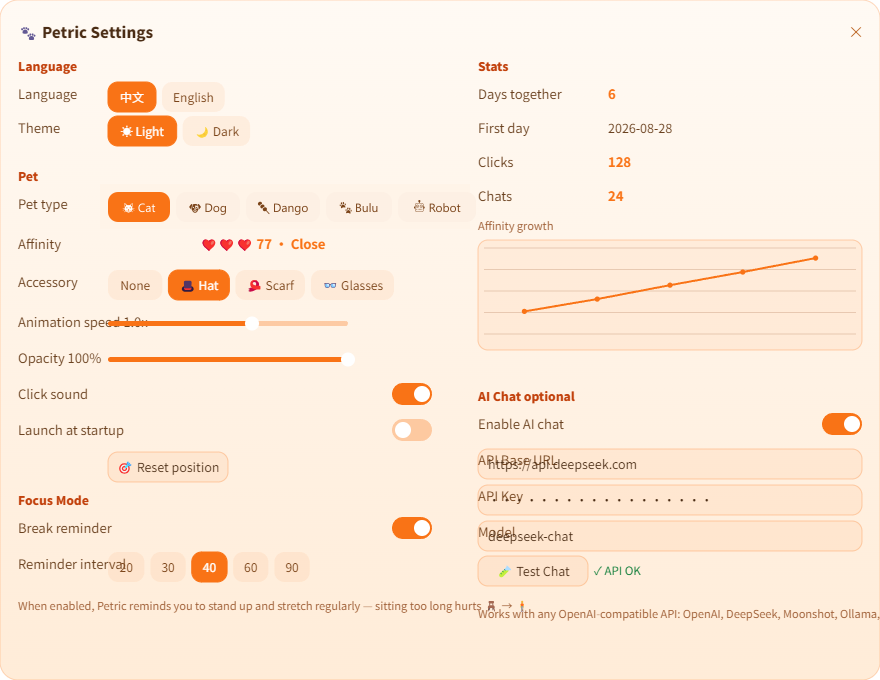
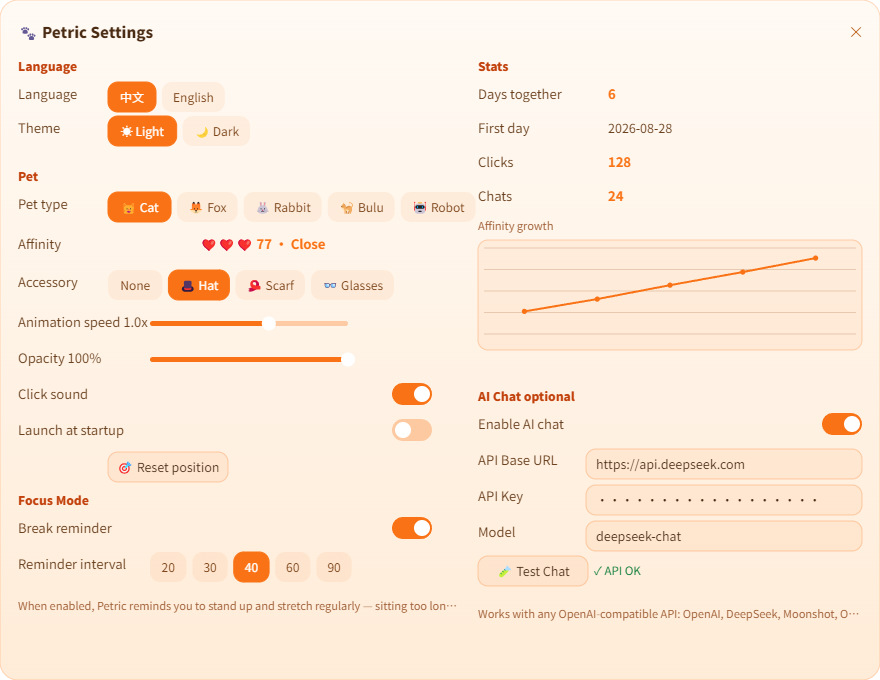
fix two graphs

diff --git a/src/renderer/settings-shot.ts b/src/renderer/settings-shot.ts
@@ -12,6 +12,8 @@ const sc = settingsShotCanvas.getContext('2d')!;
 const W = 880;
 const H = 680;
 const COL_RIGHT = 478; // right column content x offset
+const ROW_LABEL_WIDTH = 108;
+const LEFT_LONG_CONTROL_X = 150;
 
 function rrect(x: number, y: number, w: number, h: number, r: number) {
   sc.beginPath();
@@ -24,6 +26,18 @@ function text(txt: string, x: number, y: number, size: number, color: string, we
   sc.textAlign = align;
   sc.textBaseline = 'middle';
   sc.fillText(txt, x, y);
+}
+
+function textWithin(txt: string, x: number, y: number, maxWidth: number, size: number, color: string, weight = 400) {
+  sc.font = `${weight} ${size}px Nunito, "Noto Sans SC", "Segoe UI", sans-serif`;
+  if (sc.measureText(txt).width <= maxWidth) {
+    text(txt, x, y, size, color, weight);
+    return;
+  }
+
+  const chars = Array.from(txt);
+  while (chars.length && sc.measureText(`${chars.join('')}…`).width > maxWidth) chars.pop();
+  text(`${chars.join('')}…`, x, y, size, color, weight);
 }
 
 function rowLabel(txt: string, y: number, x = 18) {
@@ -151,9 +165,9 @@ settingsShotWindow.__drawSettingsShot = (locale: Locale, dict: Record<string, I1
     1,
   );
   rowLabel(T('settings.animSpeed') + ' 1.0x', 322);
-  slider(108, 321, 240, 0.6);
+  slider(LEFT_LONG_CONTROL_X, 321, 198, 0.6);
   rowLabel(T('settings.opacity') + ' 100%', 358);
-  slider(108, 357, 240, 1);
+  slider(LEFT_LONG_CONTROL_X, 357, 198, 1);
   rowLabel(T('settings.sound'), 394);
   switch_(392, 383, true);
   rowLabel(T('settings.autolaunch'), 430);
@@ -164,8 +178,8 @@ settingsShotWindow.__drawSettingsShot = (locale: Locale, dict: Record<string, I1
   rowLabel(T('settings.focusMode'), 528);
   switch_(392, 517, true);
   rowLabel(T('settings.focusInterval'), 564);
-  segButtons(108, 552, ['20', '30', '40', '60', '90'], 2);
-  text(T('settings.focusHint').split(/[。.]/)[0], 18, 606, 11, '#a1623a');
+  segButtons(LEFT_LONG_CONTROL_X, 552, ['20', '30', '40', '60', '90'], 2);
+  textWithin(T('settings.focusHint').split(/[。.]/)[0], 18, 606, COL_RIGHT - 36, 11, '#a1623a');
 
   // ---------- Right column: stats, AI chat ----------
   const RX = COL_RIGHT; // content start
@@ -228,14 +242,14 @@ settingsShotWindow.__drawSettingsShot = (locale: Locale, dict: Record<string, I1
   rowLabel(T('settings.aiEnabled'), 424, RX);
   switch_(RX + 344, 413, true);
   rowLabel(T('settings.apiBase'), 460, RX);
-  inputBox(RX, 449, 384, 'https://api.deepseek.com');
+  inputBox(RX + ROW_LABEL_WIDTH, 449, W - RX - ROW_LABEL_WIDTH - 18, 'https://api.deepseek.com');
   rowLabel(T('settings.apiKey'), 496, RX);
-  inputBox(RX, 485, 384, '••••••••••••••••••');
+  inputBox(RX + ROW_LABEL_WIDTH, 485, W - RX - ROW_LABEL_WIDTH - 18, '••••••••••••••••••');
   rowLabel(T('settings.model'), 532, RX);
-  inputBox(RX, 521, 384, 'deepseek-chat');
+  inputBox(RX + ROW_LABEL_WIDTH, 521, W - RX - ROW_LABEL_WIDTH - 18, 'deepseek-chat');
   ghostButton(RX, 556, 110, T('settings.testAi'));
   text(T('settings.apiOk'), RX + 116, 571, 11.5, '#15803d');
-  text(T('settings.aiHint').split(/[。.]/)[0], RX, 614, 11, '#a1623a');
+  textWithin(T('settings.aiHint').split(/[。.]/)[0], RX, 614, W - RX - 18, 11, '#a1623a');
 
   console.log('SETTINGS_SHOT_READY');
 };
